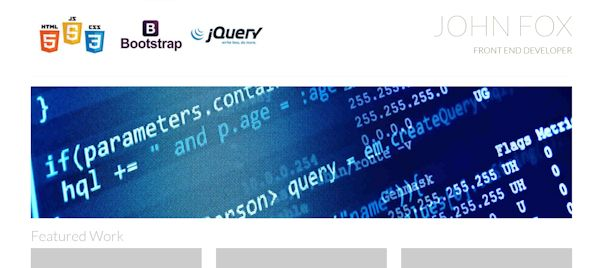
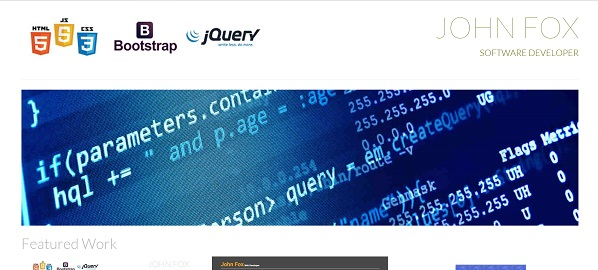
Updated projects

diff --git a/index.html b/index.html
@@ -20,7 +20,7 @@
             </div>
             <div class="col-md-6 text-right text-uppercase">
                 <h1 class="title-super text-thin">John Fox</h1>
-                <h4>Front End Developer</h4>
+                <h4>Software Developer</h4>
             </div>
         </header>
             <hr>
@@ -92,6 +92,16 @@
                     <img class="img-responsive" src="images/six.jpg" alt="Image Six" data-toggle="modal" data-target="#modalSix">
                 </picture>
                 <h3 class="text-uppercase">Feed Reader Test</h3>
+                <p>Project Link</p>
+            </article>
+        </section>
+        <section class="row text-center">
+            <article class="col-md-4 col-md-4 col-md-4">
+                <picture>
+                    <source media="(min-width: 992px)" srcset="images/seven.jpg"/>
+                    <img class="img-responsive" src="images/seven.jpg" alt="Image Seven" data-toggle="modal" data-target="#modalSeven">
+                </picture>
+                <h3 class="text-uppercase">Item Catalog</h3>
                 <p>Project Link</p>
             </article>
         </section>
@@ -167,11 +177,11 @@
         </div>
     </div>
 
-    <div class="modal fade" id="modalFive" tabindex="-1" role="dialog" aria-labelledby="myModalLabel3" aria-hidden="true">
+    <div class="modal fade" id="modalFive" tabindex="-1" role="dialog" aria-labelledby="myModalLabel5" aria-hidden="true">
         <div class="modal-dialog">
            <div class="modal-content">
                 <div class="modal-header">
-                    <h4 class="modal-title" id="myModalLabel3">Neighborhood Map</h4>
+                    <h4 class="modal-title" id="myModalLabel5">Neighborhood Map</h4>
                 </div>
             <div class="modal-body">
                 <img class="img-responsive" src="images/five.jpg" alt="Image Five">
@@ -184,15 +194,32 @@
         </div>
     </div>
 
-    <div class="modal fade" id="modalSix" tabindex="-1" role="dialog" aria-labelledby="myModalLabel3" aria-hidden="true">
+    <div class="modal fade" id="modalSix" tabindex="-1" role="dialog" aria-labelledby="myModalLabel6" aria-hidden="true">
         <div class="modal-dialog">
             <div class="modal-content">
                 <div class="modal-header">
-                    <h4 class="modal-title" id="myModalLabel3">Feed Reader Test</h4>
+                    <h4 class="modal-title" id="myModalLabel6">Feed Reader Test</h4>
                 </div>
             <div class="modal-body">
                 <img class="img-responsive" src="images/six.jpg" alt="Image Six">
                 Completed a test suite for a web-based application.
+            </div>
+            <div class="modal-footer">
+                <button type="button" class="btn btn-default" data-dismiss="modal">Close</button>
+            </div>
+            </div>
+        </div>
+    </div>
+
+    <div class="modal fade" id="modalSeven" tabindex="-1" role="dialog" aria-labelledby="myModalLabel7" aria-hidden="true">
+        <div class="modal-dialog">
+            <div class="modal-content">
+                <div class="modal-header">
+                    <h4 class="modal-title" id="myModalLabel7">Item Catalog</h4>
+                </div>
+            <div class="modal-body">
+                <img class="img-responsive" src="images/seven.jpg" alt="Image Seven">
+                A dynamic application that provides a list of items with user registration and authentication.
             </div>
             <div class="modal-footer">
                 <button type="button" class="btn btn-default" data-dismiss="modal">Close</button>
